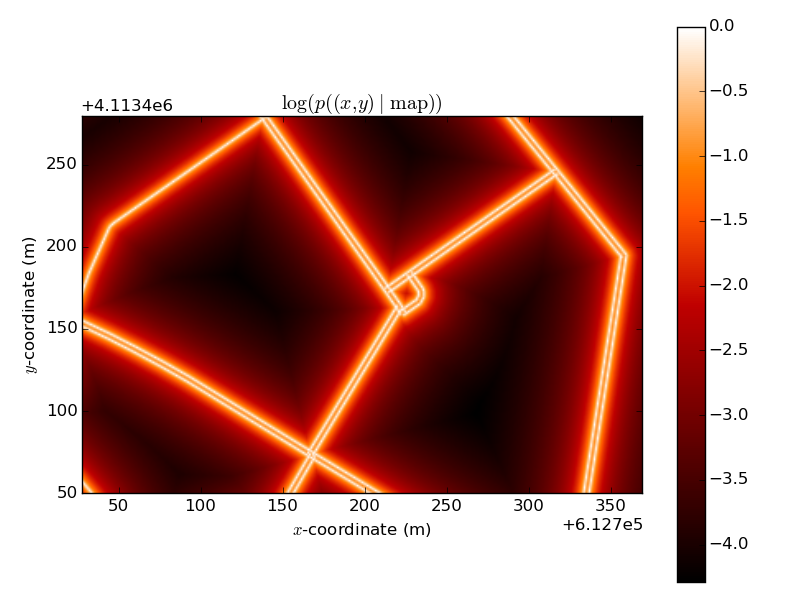
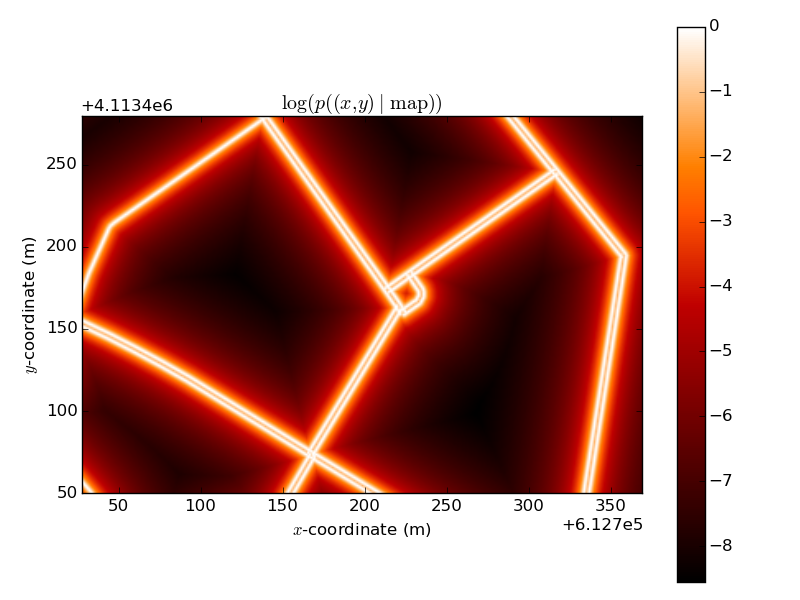
Add breakout slide, update PF

diff --git a/project/seminar/index.html b/project/seminar/index.html
@@ -52,6 +52,10 @@
             .reveal .robocap {
                 height: 3.5em;
             }
+
+            .reveal .final-list {
+                font-size: 0.8em;
+            }
         </style>
     </head>
 
@@ -312,7 +316,7 @@
                                 observation likelihood
 
                                 \[
-                                    w_t^{(i)} = p(o_{t+1} \mid s_t)
+                                    w_t^{(i)} = p(o_{t+1} \mid s_t=s_t^{(i)}, a_t)
                                 \]
                             </figcaption>
                         </figure>
@@ -344,7 +348,7 @@
                             In this case:
 
                             \[
-                                w_t^{(i)} = \frac{1}{1 + d}
+                                w_t^{(i)} = \frac{1}{1 + d^2}
                             \]
                         </p>
 
@@ -483,6 +487,39 @@ vid2.addEventListener('click', clickHandler);
                             </a> on openclipart.org
                         </dd>
                     </dl>
+                </section>
+
+                <section>
+                    <h3>Key points</h3>
+
+                    <ul class=final-list>
+                        <li>
+                            <strong>Vehicle localisation</strong> is the task of
+                            determining the position of a vehicle
+                        </li>
+                        <li>
+                            It's possible to improve vehicle localisation
+                            accuracy using <strong>street maps</strong>
+                        </li>
+                        <li>
+                            <strong>Particle filters</strong> are useful for
+                            fusing sensor data and map information
+                            <figure style="text-align: center;">
+                                <img width=200 src=images/pf-1.png>
+                                <img width=200 src=images/pf-3.png>
+                                <img width=200 src=images/pf-4.png>
+                                <img width=200 src=images/pf-5.png>
+                                <figcaption>
+                                    Initialise, predict, update, resample
+                                </figcaption>
+                            </figure>
+                        </li>
+                        <li>
+                            Map information is incorporated using a
+                            pseudo-likelihood, computed as a function of the
+                            distance to the nearest lane in the map
+                        </li>
+                    </ul>
                 </section>
             </div>
         </div>

diff --git a/project/filter.py b/project/filter.py
@@ -4,7 +4,8 @@ import numpy as np
 
 
 class ParticleFilter(object):
-    def __init__(self, num_points, init_coords, init_sigma, have_map, have_imu):
+    def __init__(self, num_points, init_coords, init_sigma, have_map,
+                 have_imu):
         """Initialise num_points particles using an isotropic Gaussian with
         variance init_sigma and mean init_coords. If track_vel is True, the
         filter will store velocities as well as the headings and yaws which it
@@ -112,7 +113,7 @@ class ParticleFilter(object):
         dists = np.zeros((self.num_points,))
         for idx, point in enumerate(self.coords):
             dists[idx] = m.nearest_lane_dist(point)
-        factors = 1.0 / (1 + dists)
+        factors = 1.0 / (1 + dists ** 2)
         self.weights *= factors
 
     def predict(self, dt, *args):

diff --git a/project/seminar/plot_map.py b/project/seminar/plot_map.py
@@ -41,7 +41,7 @@ if __name__ == '__main__':
         for j in xrange(y_samples):
             pos = (X[j, i], Y[j, i])
             dists[j, i] = m.nearest_lane_dist(pos)
-    results = np.log(1.0 / (1 + dists))
+    results = np.log(1.0 / (1 + dists**2))
 
     # Plot
     print("Plotting")
